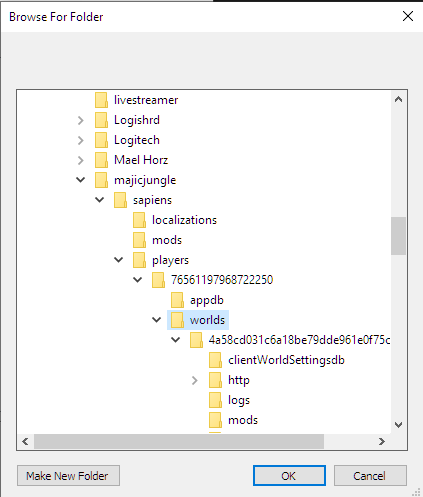
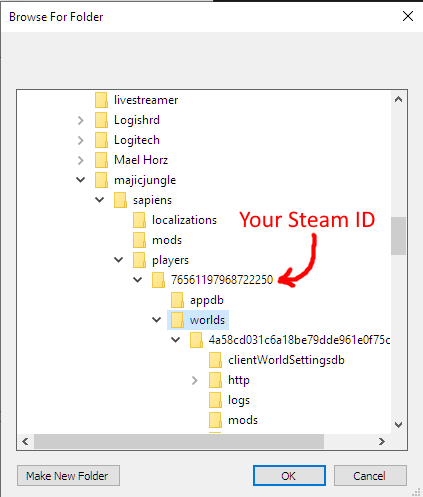
added worlds folder screenshot

Changed region(s): [[0.5532, 0.4225, 0.8913, 0.6036]]

diff --git a/README.md b/README.md
@@ -1,5 +1,3 @@
-# NOT YET READY FOR GENERAL USE
-
 # SapiensBackupManager
 
 ![screenshot](https://github.com/wriley/SapiensBackupManager/blob/main/screenshot.png)
@@ -11,5 +9,6 @@ How to install:
 * Double click SapiensBackupManager.exe
 * Set a backup folder location to store created backup files
 * Set your worlds folder location
+![worlds folder](https://github.com/wriley/SapiensBackupManager/blob/main/saveFolder.png)
 
 Use at your own risk
